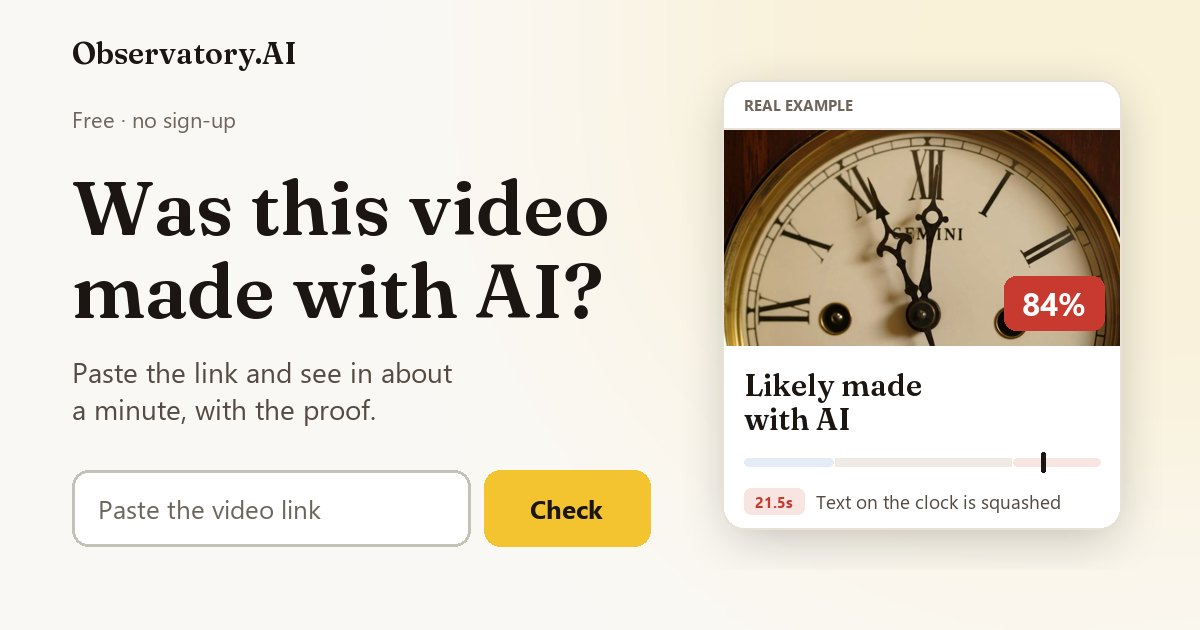
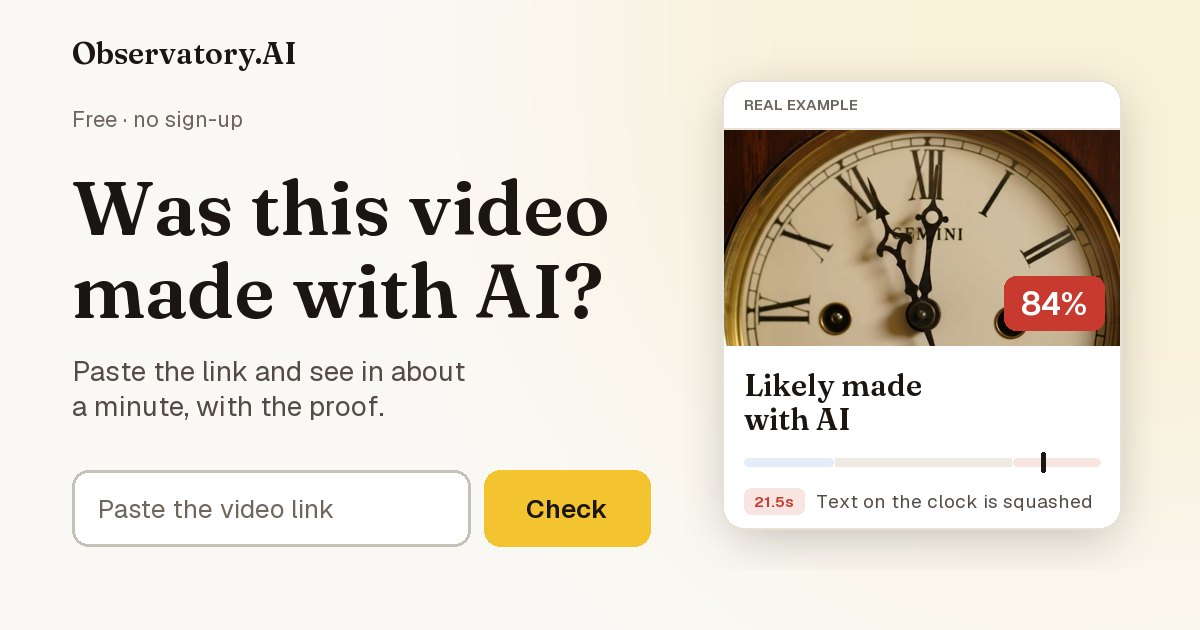
Geist for body text
Site text and the share image use Geist; headings stay in Fraunces.

diff --git a/src/observatory/detect/templates/base.html b/src/observatory/detect/templates/base.html
@@ -28,7 +28,7 @@
   <meta name="theme-color" content="#1b1612">
   <link rel="preconnect" href="https://fonts.googleapis.com">
   <link rel="preconnect" href="https://fonts.gstatic.com" crossorigin>
-  <link href="https://fonts.googleapis.com/css2?family=Fraunces:opsz,wght@9..144,500;9..144,600&family=Instrument+Sans:wght@400;500;600&display=swap" rel="stylesheet">
+  <link href="https://fonts.googleapis.com/css2?family=Fraunces:opsz,wght@9..144,500;9..144,600&family=Geist:wght@400;500;600&display=swap" rel="stylesheet">
   <script>
     // Mark JS as available (scroll reveals only hide content when JS can show it again),
     // then apply a saved theme before paint so there is no flash.
@@ -46,7 +46,7 @@
          dark text; text and numerals use the darker mustard for contrast. */
       --accent: #8a5a00; --highlight: #f4c430; --on-highlight: #1b1612;
       --serif: "Fraunces", Georgia, "Times New Roman", serif;
-      --sans: "Instrument Sans", system-ui, -apple-system, "Segoe UI", sans-serif;
+      --sans: "Geist", system-ui, -apple-system, "Segoe UI", sans-serif;
       /* three radii, nothing in between; pills stay round */
       --r-sm: 6px; --r-md: 10px; --r-lg: 16px;
       /* one type scale (base 17px); every size on the site is one of these */

diff --git a/scripts/make_og.py b/scripts/make_og.py
@@ -1,12 +1,12 @@
 """Render the link-preview images (1200x630) shown when the site is shared
 on LinkedIn, WhatsApp or X: the question on the left, a real result on the right.
 
-Needs Pillow. Headings use Fraunces (the site's heading font): pass the TTF via
-OG_SERIF, e.g. the variable font from github.com/google/fonts (ofl/fraunces).
-Without it, falls back to Georgia Bold. Body text uses Segoe UI (Windows) or
-OG_SANS / OG_SANS_BOLD.
+Needs Pillow. Uses the site's fonts when given: Fraunces for headings (OG_SERIF)
+and Geist for text (OG_SANS and OG_SANS_BOLD, the same variable file), both from
+github.com/google/fonts (ofl/fraunces, ofl/geist). Without them it falls back to
+Georgia Bold and Segoe UI.
 
-Run: OG_SERIF=path/to/Fraunces.ttf python scripts/make_og.py
+Run: OG_SERIF=Fraunces.ttf OG_SANS=Geist.ttf OG_SANS_BOLD=Geist.ttf python scripts/make_og.py
 """
 
 import os
@@ -50,7 +50,12 @@ def serif(size: int) -> ImageFont.FreeTypeFont:
 
 
 def sans(size: int, bold: bool = False) -> ImageFont.FreeTypeFont:
-    return ImageFont.truetype(SANS_BOLD if bold else SANS, size)
+    font = ImageFont.truetype(SANS_BOLD if bold else SANS, size)
+    try:  # variable Geist: one file, pick the weight
+        font.set_variation_by_name("SemiBold" if bold else "Regular")
+    except (OSError, ValueError, AttributeError):
+        pass
+    return font
 
 
 def background() -> Image.Image:
